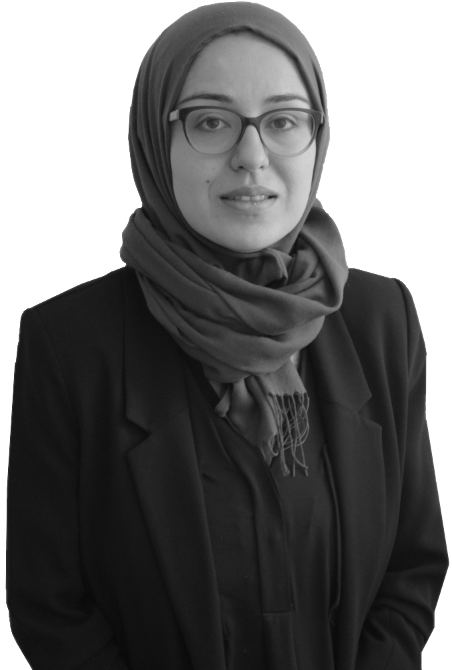
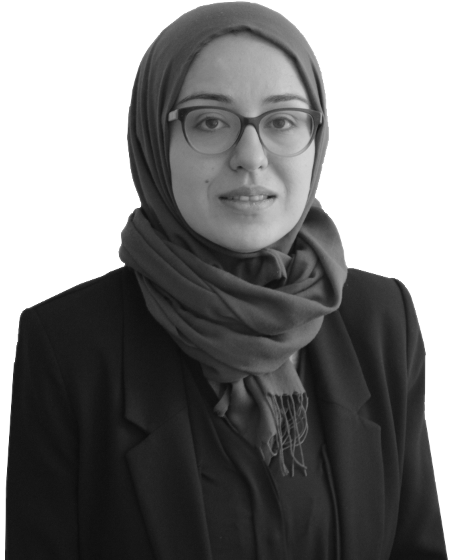
headshot shortened

diff --git a/src/App.css b/src/App.css
@@ -158,17 +158,20 @@ a.all{
  }
 
 @media (min-width: 500px) {
+  h1.card-title{
+    font-size: 43px;
+  }
   .headshot{
     visibility: visible;
     width:500px;
     position:absolute;
     margin-left:-100px;
-    margin-top:-316px;
+    margin-top:-326px;
     z-index: 0;
   }
 
   .holder{
-    height:700px;
+    height:580px;
     z-index: -1;
     background: -moz-linear-gradient(-45deg, #f8b195 0%, #f67280 37%, #c06084 69%, #6c5b7b 95%, #355c7d 100%); /* FF3.6-15 */
     background: -webkit-linear-gradient(-45deg, #f8b195 0%, #f67280 37%,#c06084 69%,#6c5b7b 95%,#355c7d 100%); /* Chrome10-25,Safari5.1-6 */
@@ -176,7 +179,7 @@ a.all{
   }
 
   .bio{
-    padding-top: 275px;
+    padding-top: 285px;
     padding-bottom:50px;
     color:white;
   }
@@ -189,6 +192,10 @@ a.all{
 
 
 @media (min-width: 768px) {
+  .bio{
+    left: 40%;
+    margin-left:-150px;
+  }
  }
 
 

diff --git a/src/App.js b/src/App.js
@@ -39,9 +39,7 @@ class App extends Component {
             <img className="headshot" src={require('./assets/headshot.PNG')} />
             <div className="headshot-text">
               <h1 className="card-title">
-                TUBA
-                <br/>
-                YILMAZ
+                TUBA YILMAZ
               </h1>
               <p className="card-text">
                 Dr. Tuba Yilmaz Abdolsaheb is an Assistant Professor and a Marie Sklodowska Curie Research Fellow in Department of Electronics and Communication Engineering at Istanbul Technical University (ITU).
